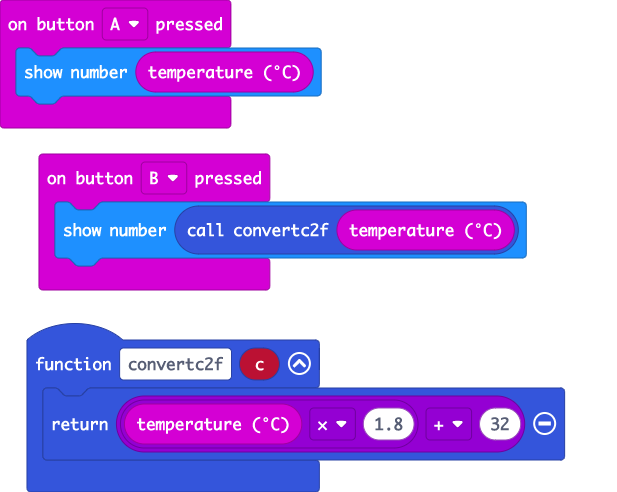
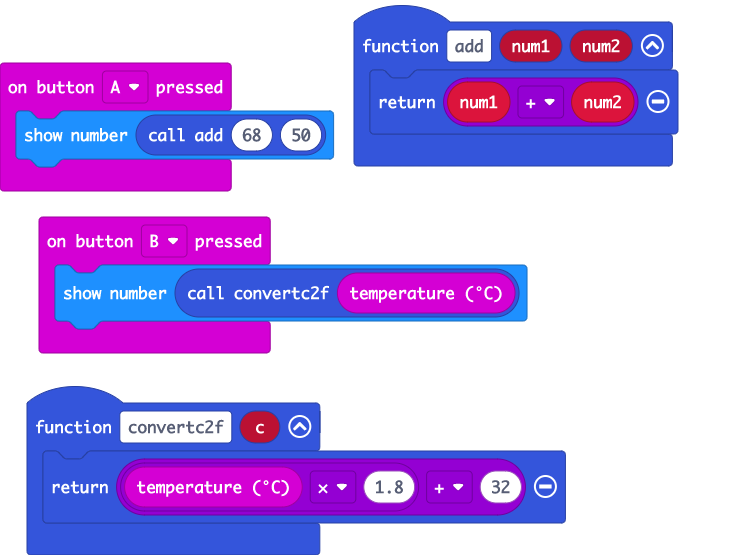
Update main.blocks, main.ts

diff --git a/main.ts b/main.ts
@@ -1,5 +1,5 @@
 input.onButtonPressed(Button.A, function () {
-    basic.showNumber(input.temperature())
+    basic.showNumber(add(68, 50))
 })
 function convertc2f (c: number) {
     return input.temperature() * 1.8 + 32
@@ -7,3 +7,6 @@ function convertc2f (c: number) {
 input.onButtonPressed(Button.B, function () {
     basic.showNumber(convertc2f(input.temperature()))
 })
+function add (num1: number, num2: number) {
+    return num1 + num2
+}
